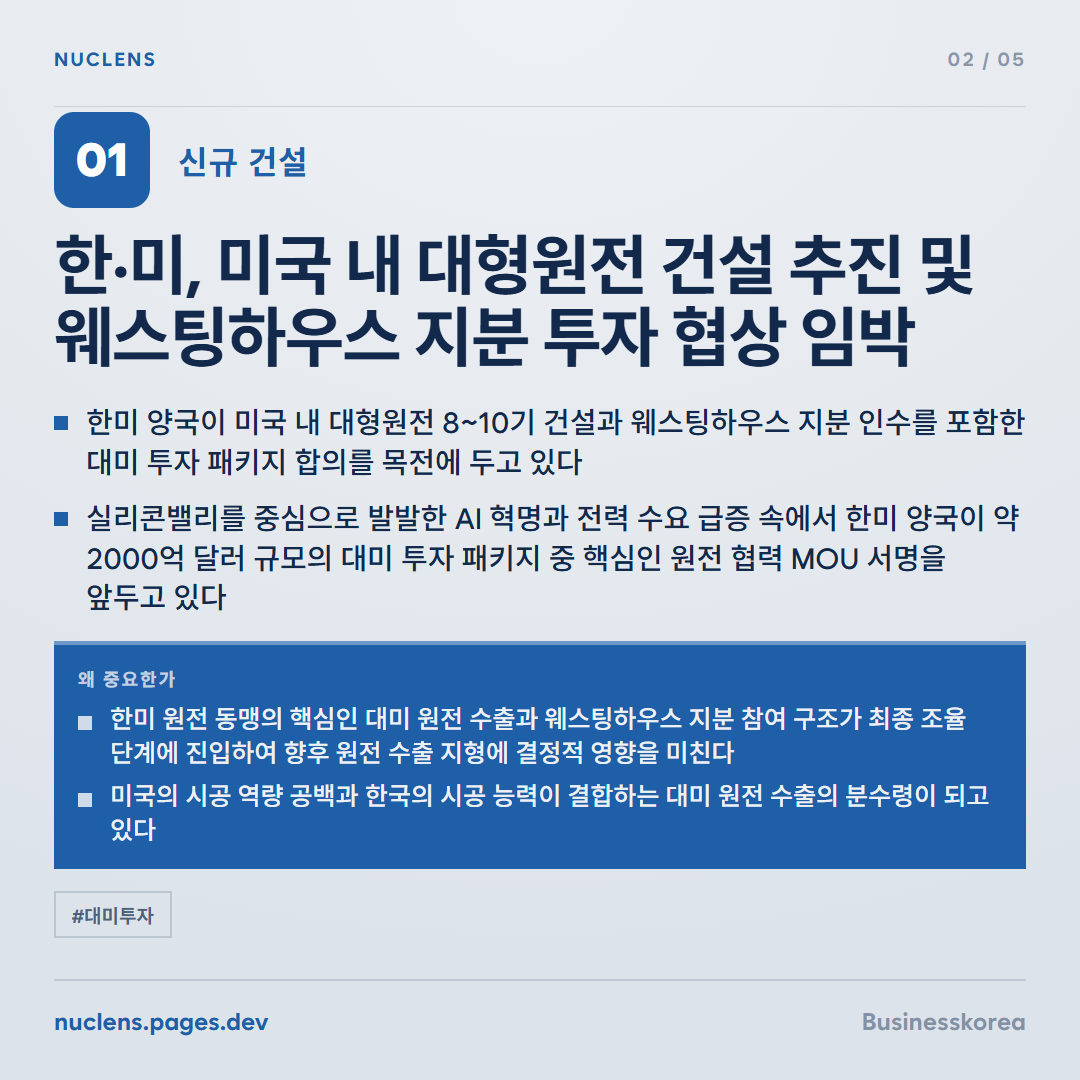
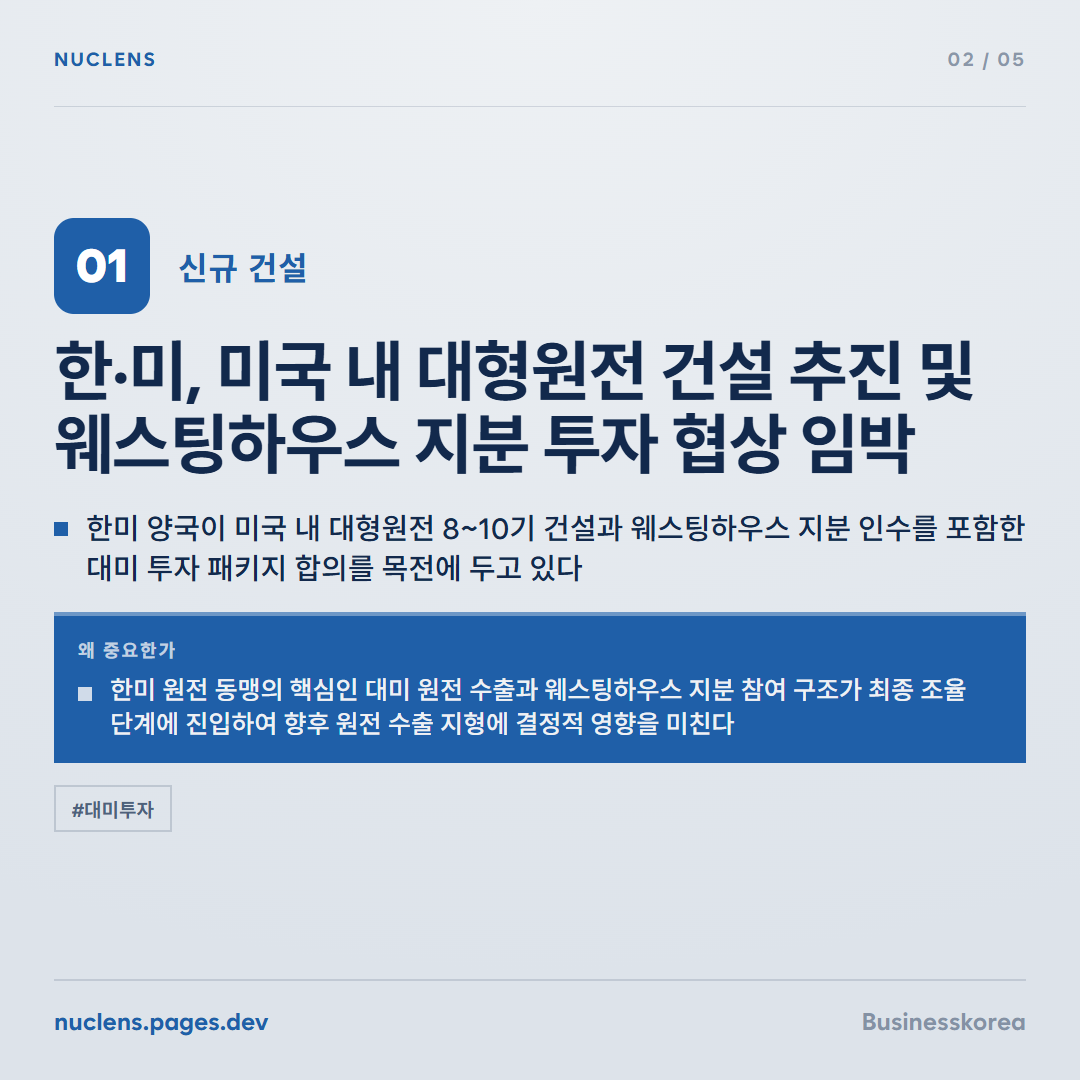
fix(cards): 폴백 카피 사실 1·의미 1 문장(90자) — 2+2 는 글이 너무 많다(지니 09-16)

Changed region(s): [[0.0306, 0.0917, 0.9472, 0.8556]]

diff --git a/make_cards.py b/make_cards.py
@@ -308,8 +308,9 @@ def ask_llm(items: list[dict], date: str, total_collected: int,
 
 _SENT_SPLIT_RE = re.compile(r"(?<=[.!?。])\s+|\n+")
 _CLAUSE_SEPS = ("…", " - ", " – ", ", ")   # '·'·공백은 안 쓴다 — "3·4호기"가 "3"이 된다
-# 폴백 카피는 축약하지 않는다. 문장을 통째로 두고(최대 두 줄 반) 넘치면 렌더 가드가 잡는다.
-FALLBACK_LINE_MAX = 96
+# 폴백 카피는 축약하지 않는다. 문장을 통째로 두되 한 장에 사실 1·의미 1 문장만 —
+# 2+2 는 "글이 너무 많아 안 들어온다"(지니 09-16). 90자 = 두 줄, 문장을 안 자른다.
+FALLBACK_LINE_MAX = 90
 FALLBACK_HEADLINE_MAX = 44   # 제목은 축약 없이 세 줄까지 — "…지분…" 같은 잘린 제목보다 낫다
 
 
@@ -352,12 +353,12 @@ def draft_copy(items: list[dict]) -> dict:
     실패 시 폴백."""
     steps = []
     for it in items:
-        # 사실 = 요약 한 문장 + 본문 요지 첫 문장(둘). 의미 = 왜 중요한가·시사점 첫 문장.
+        # 사실 = 요약 한 문장(없으면 본문 요지 첫 문장). 의미 = 왜 중요한가(없으면 시사점) 한 문장.
         facts = [clip(x, FALLBACK_LINE_MAX) for x in _sentences(it.get("summary"), it.get("detail"))]
-        facts = [f for f in facts if f][:2]
+        facts = [f for f in facts if f][:1]
         why = [clip(x, FALLBACK_LINE_MAX) for x in _sentences(it.get("why_important"), it.get("implication"),
                                                               it.get("open_question"))]
-        why = [w for w in why if w and w not in facts][:2]
+        why = [w for w in why if w and w not in facts][:1]
         if not facts and it.get("title"):
             facts.append(clip(it["title"], FALLBACK_LINE_MAX))
         if not why:
